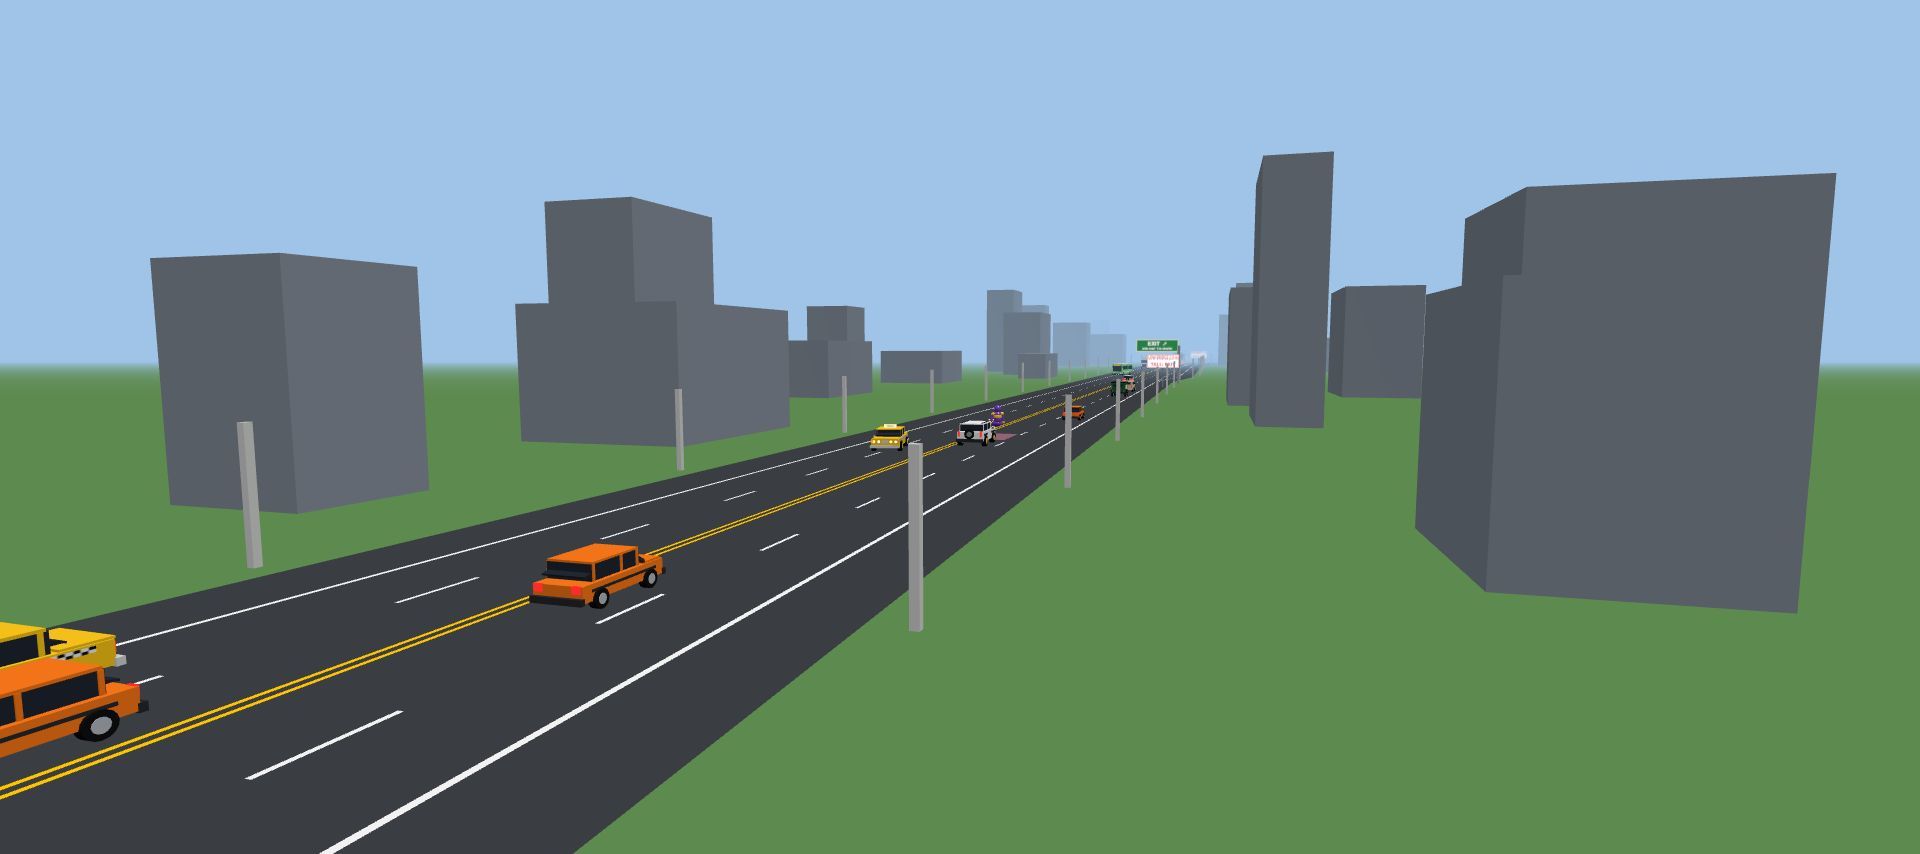
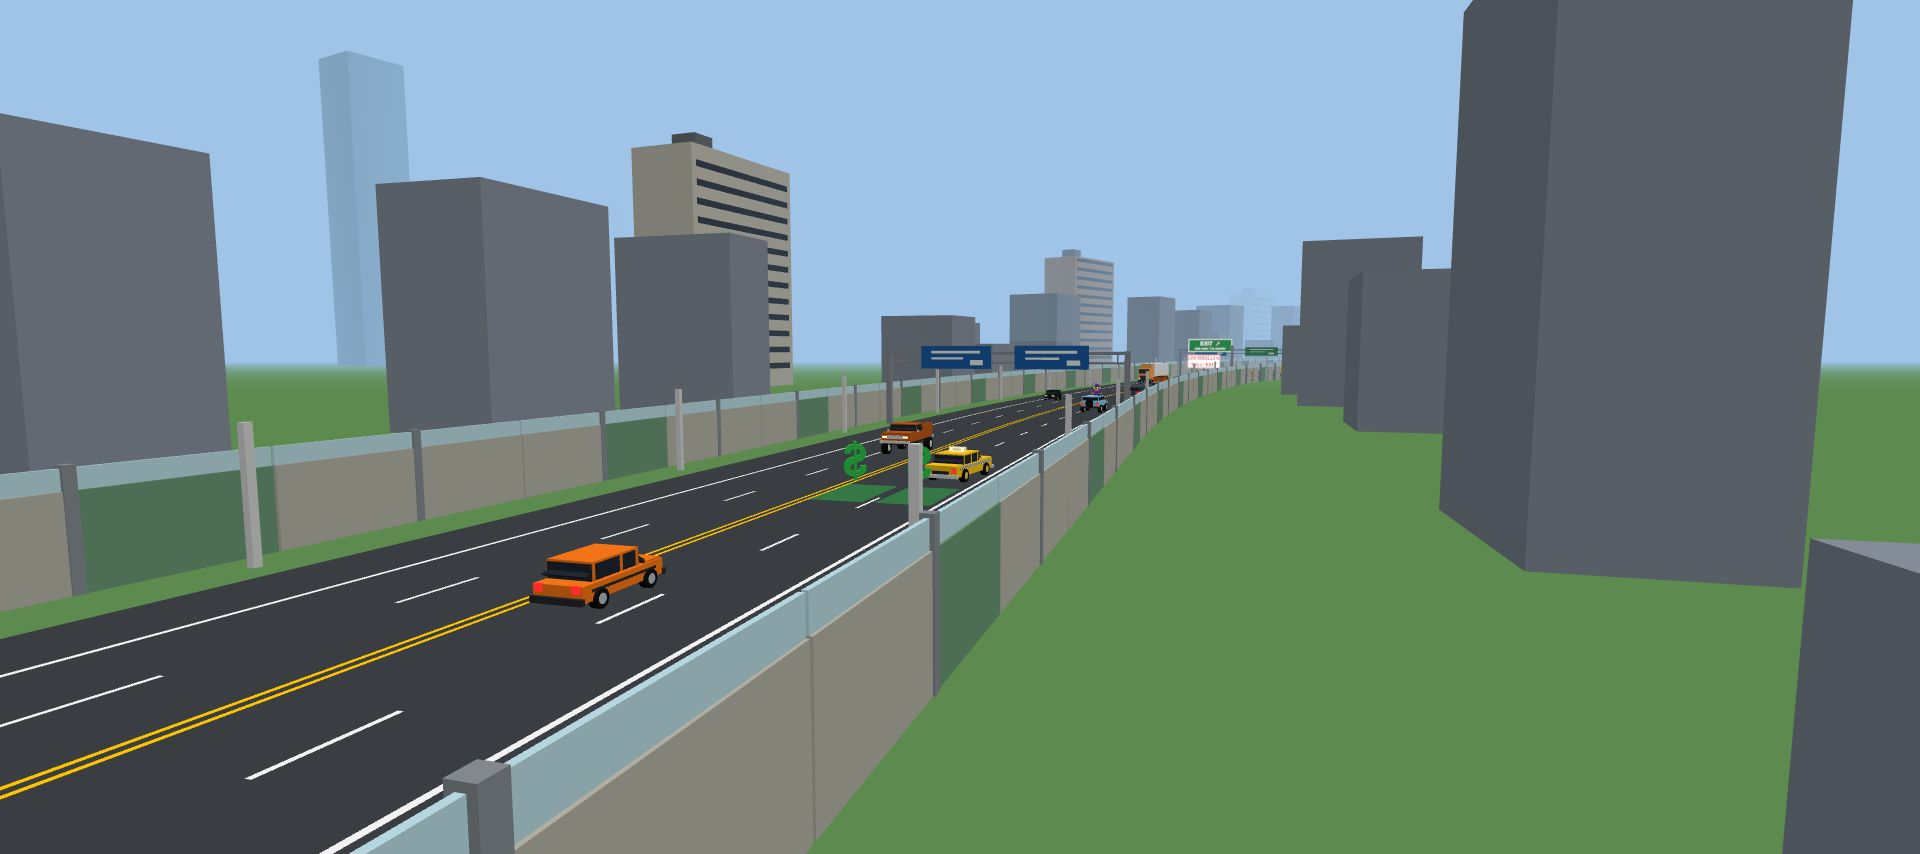
Delivery: Ring Road to the new standard: descriptions that name its places, a fourth target where it shows, its menu picture in both sizes; a side road's blocks kept out of the zones' set-pieces. Clock as it was (the clean run is 182.6 s before and after)

diff --git a/src/delivery/render/road.js b/src/delivery/render/road.js
@@ -1761,7 +1761,10 @@ const buildRoad = () => {
           const s = s0 + Math.random() * 10;
           const w = 6 + Math.random() * 10, h = 5 + Math.random() * 22, d = 6 + Math.random() * 12;
           const far = 8 + w / 2 + Math.random() * 30;
-          if (cityKeepsClear(s, side)) continue; // (a set-piece of a zone stands there: themes/extras.js. The dice are thrown all the same, so the rest is laid out as ever)
+          // (a set-piece of a zone stands there: themes/extras.js. The dice are thrown all the same, so the rest is laid
+          // out as ever. A side road's own blocks reach across the expressway where the two run close: along such a
+          // stretch it has none on its left)
+          if (from === Track.start ? cityKeepsClear(s, side) : side < 0 && cityKeepsClear(Track.along(s), -1)) continue;
           blocks.push([s, side < 0 ? Track.lo(s) - far : Track.hi(s) + far, h / 2, w, h, d]);
         }
       }
